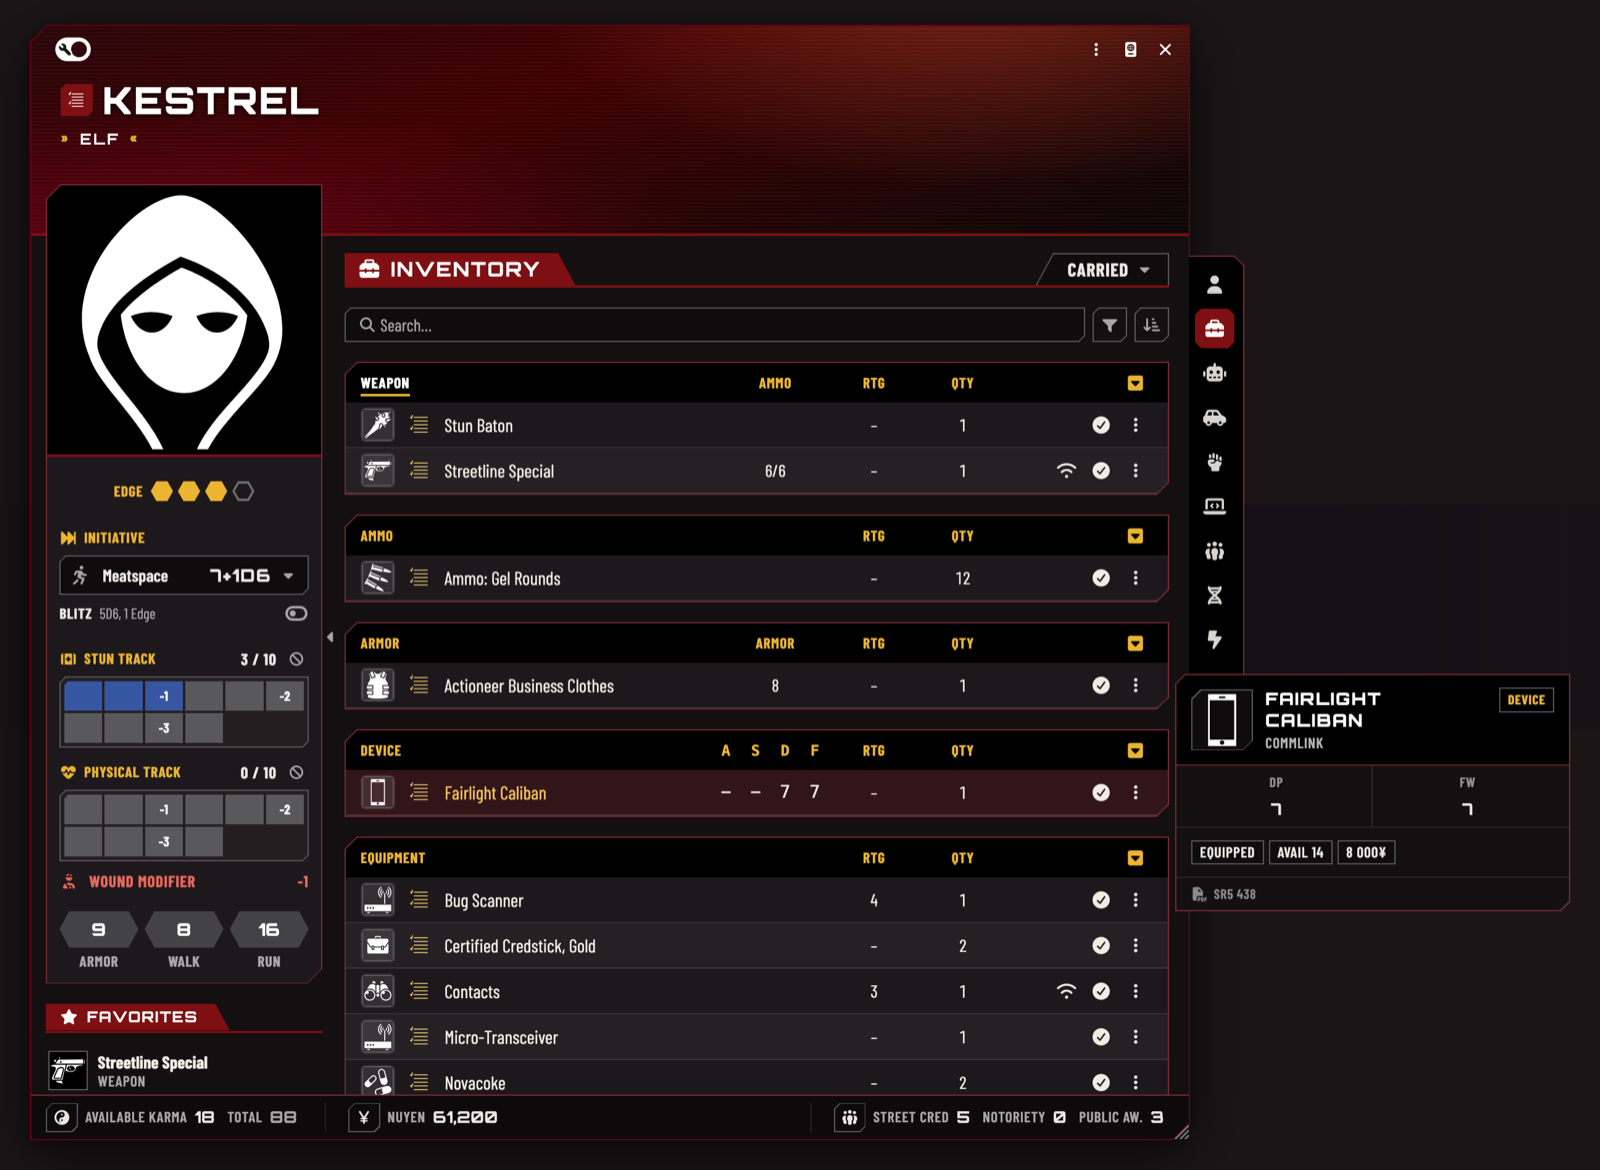
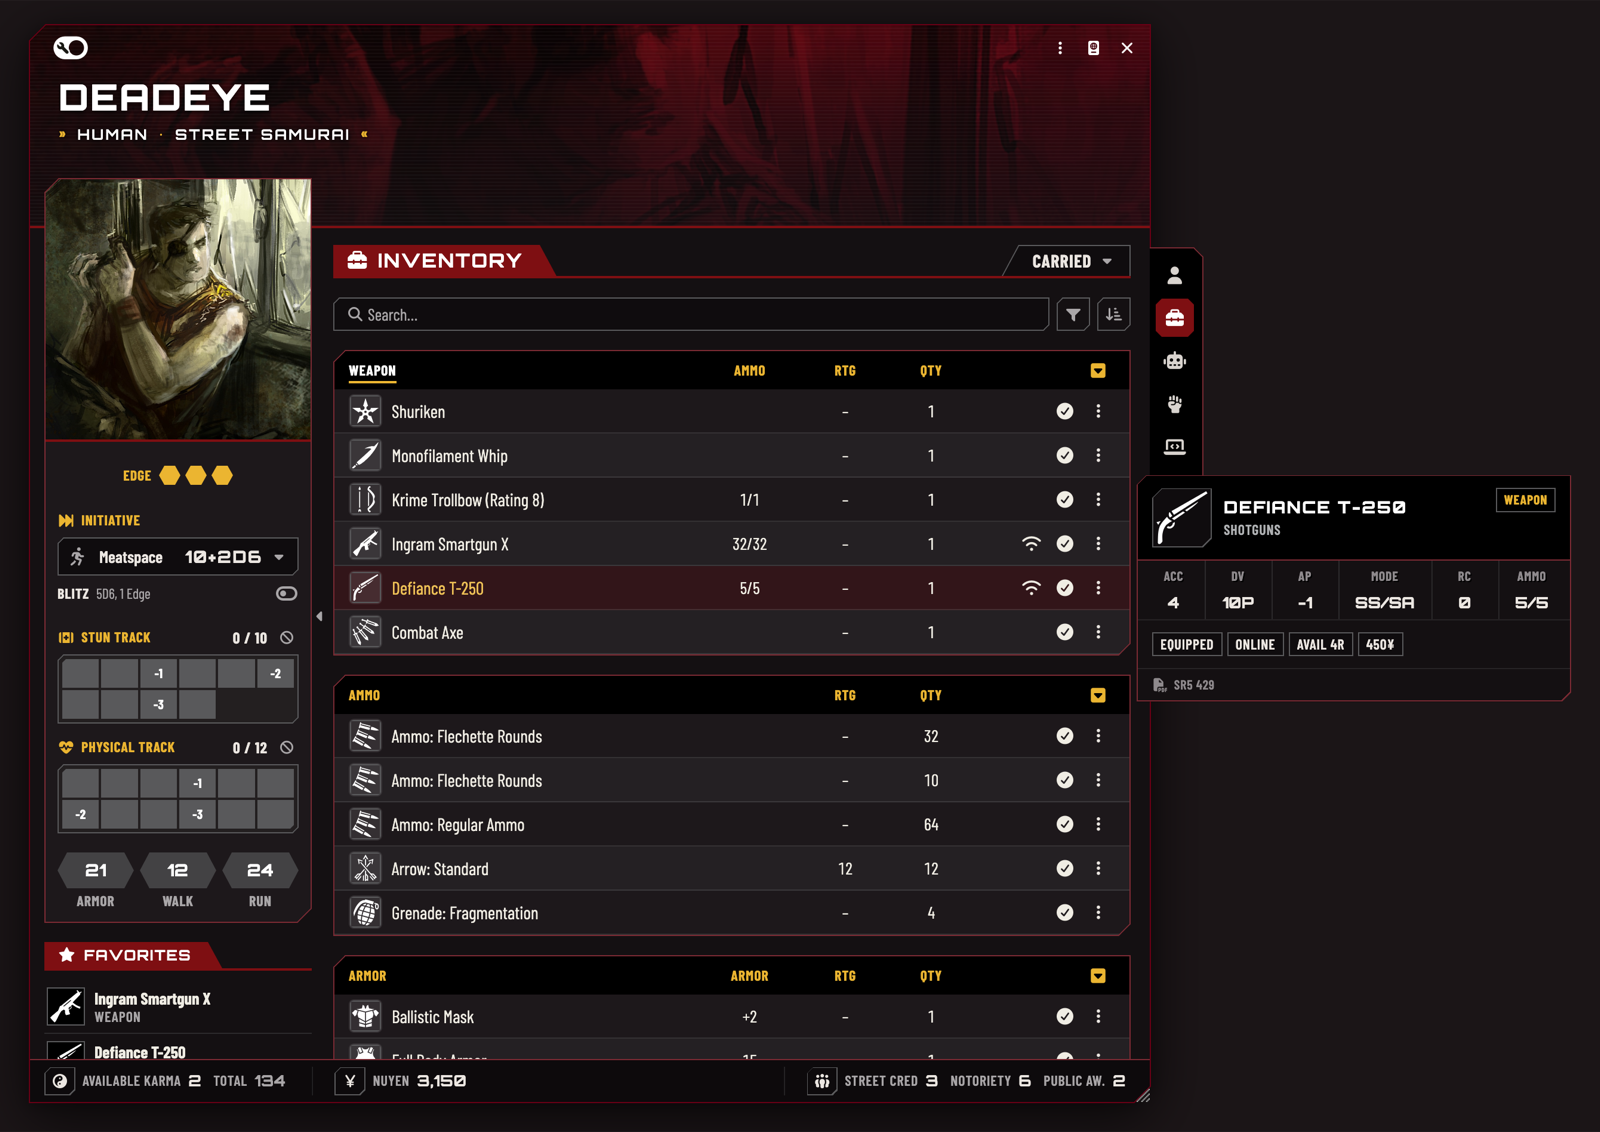
SR5 Redesign 0.3.61

diff --git a/README.md b/README.md
@@ -1,6 +1,6 @@
 # SR5 Redesign
 
-![The character sheet: attributes and limits, the combat sidebar, skills with their pools](media/character-skills.png)
+![A street samurai's character sheet: attributes and limits, the combat sidebar, skills with their pools](media/character-skills.png)
 
 An unofficial redesign of the **Shadowrun 5e** system's sheets for Foundry VTT v14. It adds new sheets and leaves the
 system and its data alone; the system's own sheets stay available. Turn the module off and characters go back to the
@@ -42,8 +42,9 @@ smaller screens the sheet keeps its margins and the attribute plates stay readab
 size.
 
 More pictures: [inventory with a hover card](media/character-inventory-card.png),
-[light theme](media/character-light.png), [vehicle and drone sheet](media/vehicle.png). The portraits are Foundry's
-default silhouette.
+[augmentations](media/character-augmentations.png), [light theme](media/character-light.png). The characters are test
+characters; their pictures are concept art by David Revoy for the Blender Foundation's open movie Tears of Steel
+(see Credits).
 
 ## In detail
 
@@ -110,6 +111,10 @@ stylesheet; the sheet, its tooltips and the windows it opens keep their own type
 - Bundled code from npm: Fuse.js (Apache-2.0); its copyright and license are in `THIRD-PARTY-NOTICES.md`.
 - Icons: Font Awesome Free, from Foundry's own copy. Row pictures come from the installed system (some by Bella
   Carvalho, CC BY-SA 4.0, as the system's README credits them).
+- Screenshots (`media/`, not part of the module): the portraits and header art are concept art by David Revoy /
+  Blender Foundation for Tears of Steel, CC BY 3.0 (https://creativecommons.org/licenses/by/3.0/): "Celia - killer bots,
+  streets" and "Genghis Jones - pod active" (https://commons.wikimedia.org/wiki/Category:Concept_art_by_David_Revoy_for_Tears_of_Steel),
+  cropped and resized, and tinted by the sheet's header.
 - Colours were measured from the SR5 rulebooks. No Catalyst Game Labs or Topps art or logos are included.
 
 ## License

diff --git a/CHANGELOG.md b/CHANGELOG.md
@@ -19,6 +19,23 @@ sheet) would have been a minor release.
 
 ## [Unreleased]
 
+## [0.3.61] - 2026-10-21
+
+### Changed
+- Screenshots show the characters only: the vehicle screenshot gives way to the street samurai's augmentations.
+
+## [0.3.60] - 2026-10-21
+
+### Changed
+- Screenshots: no "fresh import" marks on the characters' items, the street samurai's header art framed on him, the
+  van with a short name.
+
+## [0.3.59] - 2026-10-21
+
+### Changed
+- Screenshots: a street samurai and a rigger made for them, with concept art by David Revoy / Blender Foundation
+  (Tears of Steel, CC BY 3.0) as portraits and header art; the credit is in the captions and the README.
+
 ## [0.3.58] - 2026-10-21
 
 ### Added

diff --git a/SOURCES.md b/SOURCES.md
@@ -1,6 +1,6 @@
 # Where these files come from
 
-The repository holds everything SR5 Redesign 0.3.58 is built from; `npm install && npm run build` writes the module to
+The repository holds everything SR5 Redesign 0.3.61 is built from; `npm install && npm run build` writes the module to
 `dist/sr5-redesign`.
 
 | Folder | Source |
